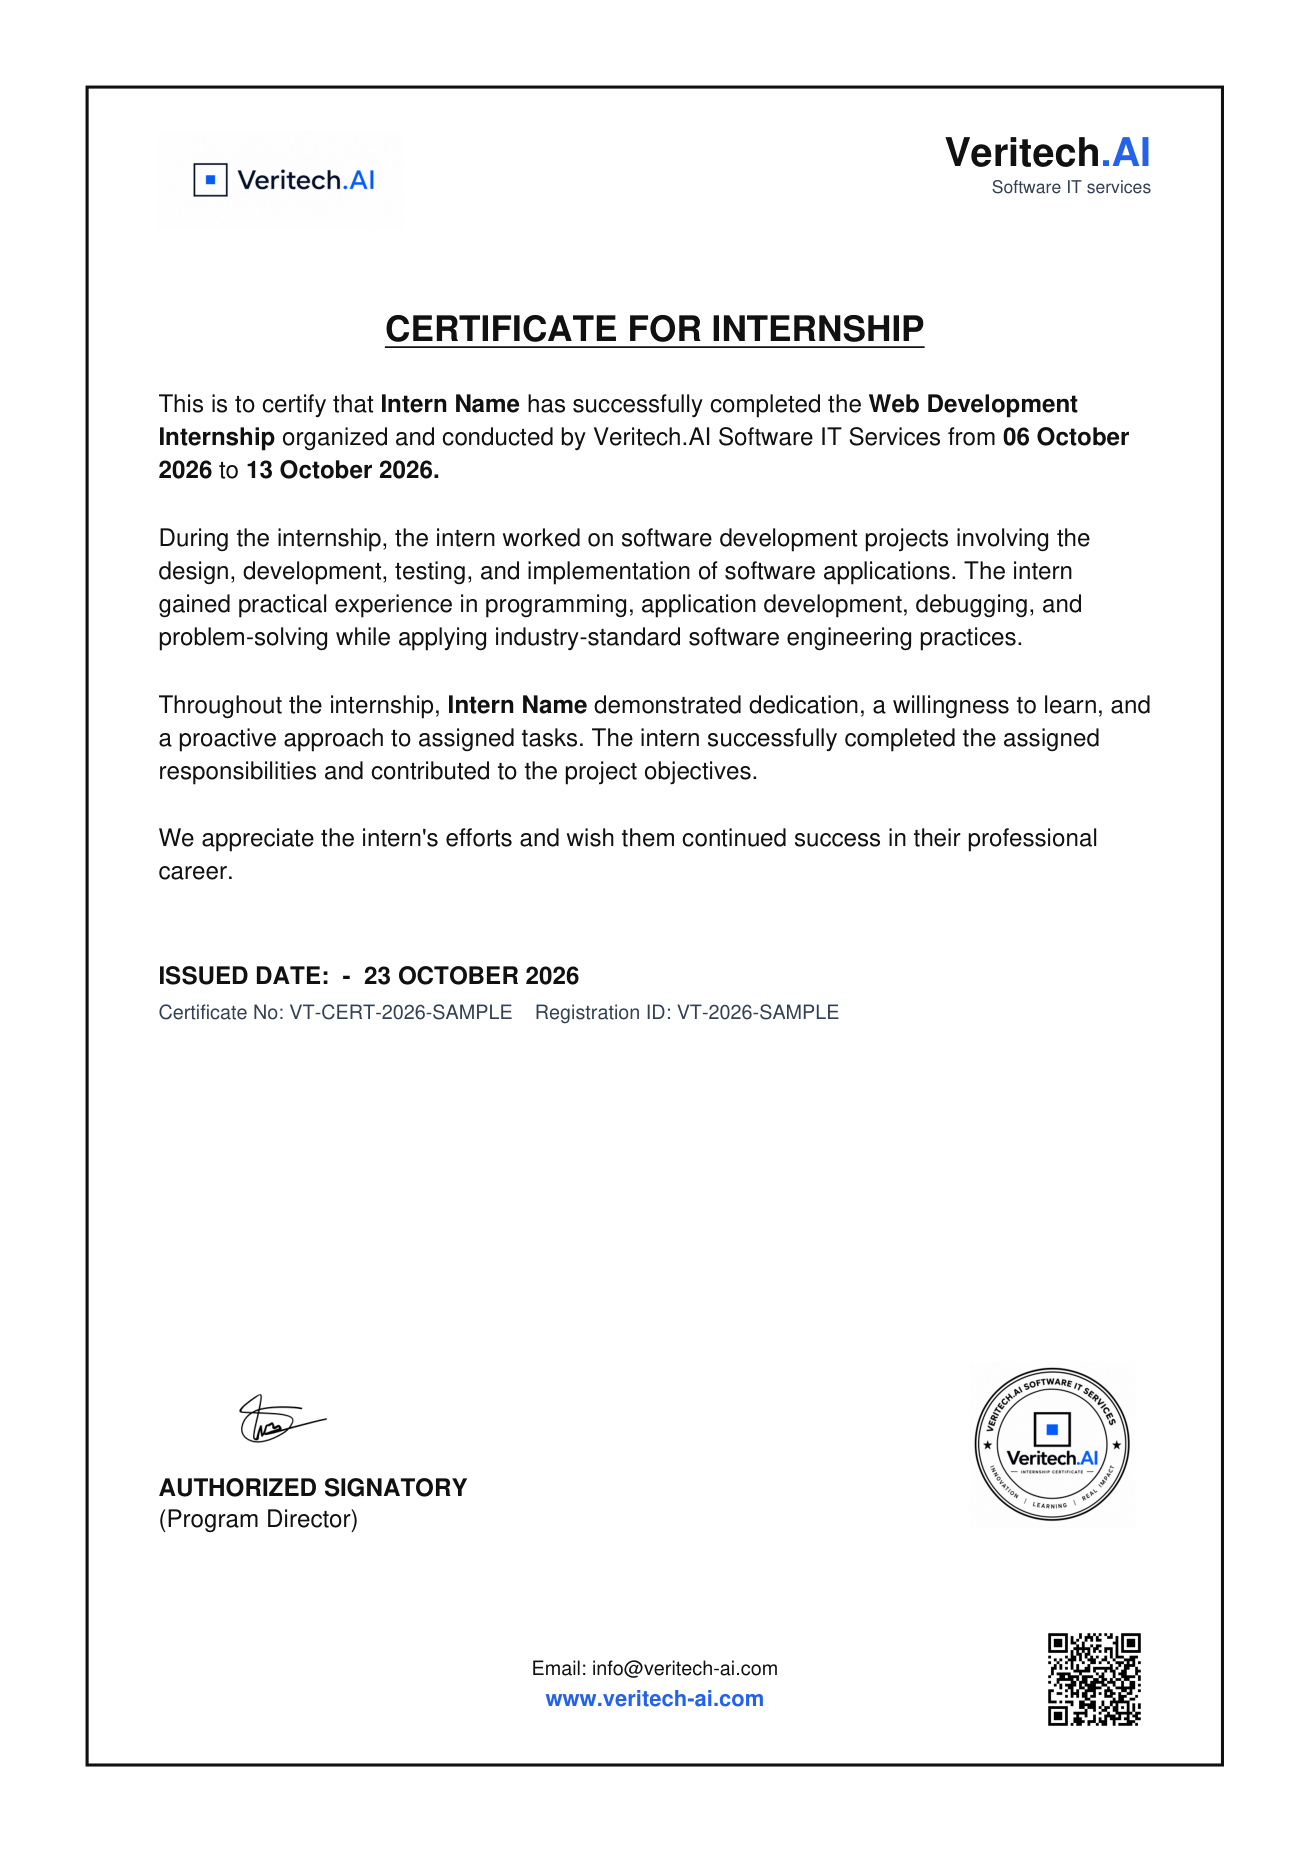
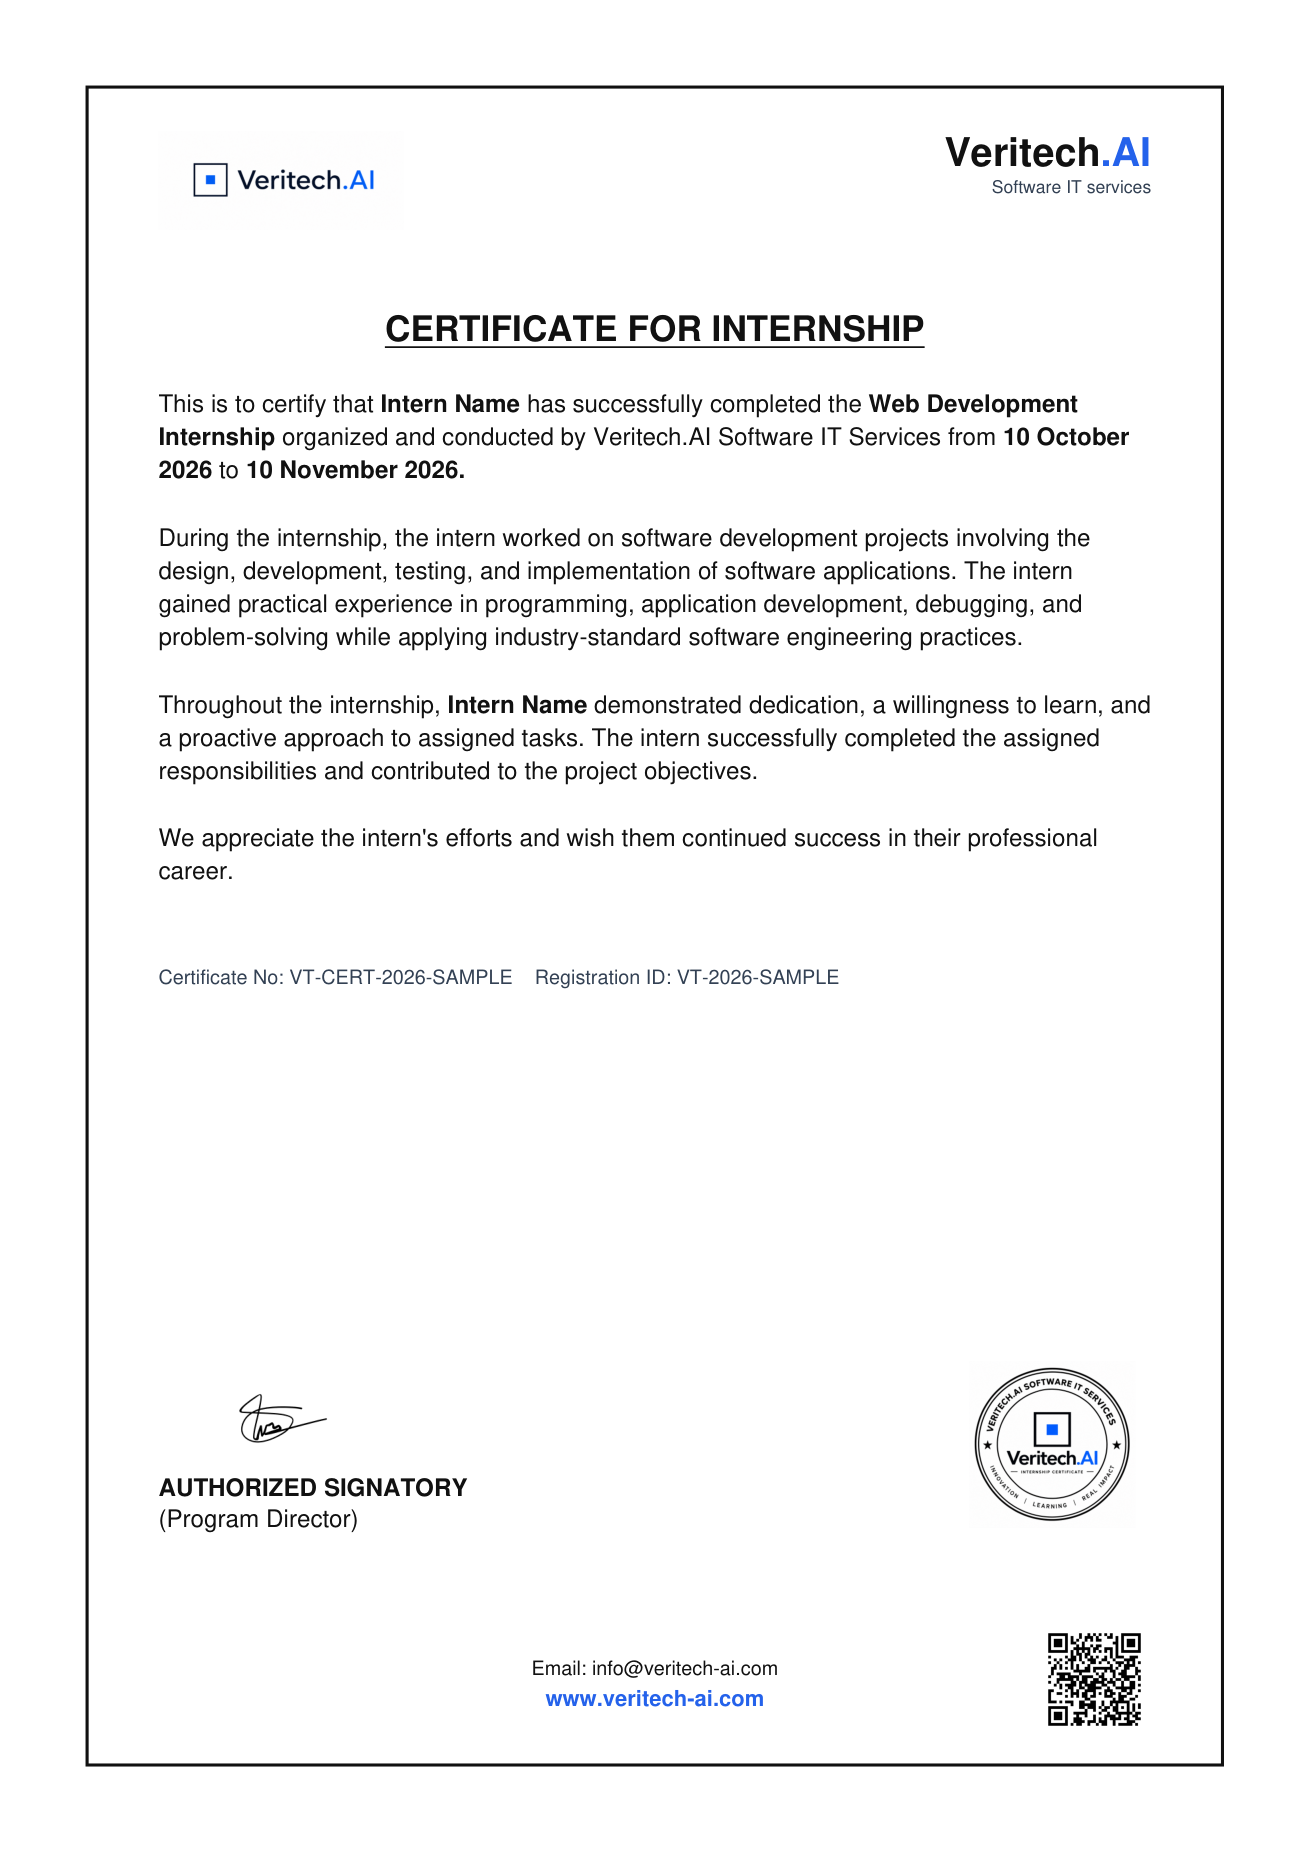
Align payment plan cards and hide the 1 Day option; drop issued date from certificates.

Changed region(s): [[0.1221, 0.5229, 0.6412, 0.5537], [0.2137, 0.2461, 0.3359, 0.2768], [0.7634, 0.2153, 0.7939, 0.2461]]

diff --git a/frontend/src/pages/Payment.jsx b/frontend/src/pages/Payment.jsx
@@ -39,7 +39,18 @@ export default function Payment() {
     setPlansLoading(true);
     api
       .get("/plans")
-      .then((r) => setPlans(Array.isArray(r.data) ? r.data : []))
+      .then((r) => {
+        const next = (Array.isArray(r.data) ? r.data : []).filter(
+          (plan) => Number(plan.duration_months) !== 0,
+        );
+        setPlans(next);
+        setSelected((current) => {
+          if (next.some((plan) => plan.duration_months === current)) return current;
+          return next.find((plan) => plan.duration_months === 3)?.duration_months
+            ?? next[0]?.duration_months
+            ?? 3;
+        });
+      })
       .catch(() => setPlans([]))
       .finally(() => setPlansLoading(false));
   }, []);
@@ -191,10 +202,10 @@ export default function Payment() {
         {plansLoading ? (
           <PlansSkeleton />
         ) : (
-        <div className="grid items-stretch gap-4 md:grid-cols-2 xl:grid-cols-5">
+        <div className="grid items-stretch gap-4 pt-4 md:grid-cols-2 xl:grid-cols-4">
           {plans.map((p) => {
             const active = selected === p.duration_months;
-            const key = p.duration_months === 0 ? "1d" : `${p.duration_months}m`;
+            const key = `${p.duration_months}m`;
             const perks = PLAN_PERKS[p.duration_months] || [];
             const popular = Boolean(p.popular);
             const career = p.duration_months === 3 || p.duration_months === 6;
@@ -203,9 +214,9 @@ export default function Payment() {
                 key={p.duration_months}
                 data-testid={`duration-card-${key}`}
                 onClick={() => setSelected(p.duration_months)}
-                className={`relative flex cursor-pointer flex-col rounded-[24px] border bg-white p-6 ${
+                className={`relative flex h-full cursor-pointer flex-col rounded-[24px] border bg-white p-6 pt-8 ${
                   career
-                    ? "border-blue-300 shadow-[0_24px_50px_-24px_rgba(37,99,235,0.55)] xl:-mt-2"
+                    ? "border-blue-300 shadow-[0_24px_50px_-24px_rgba(37,99,235,0.55)]"
                     : "border-slate-200/80 shadow-sm"
                 } ${active ? "ring-2 ring-slate-900" : ""}`}
               >
@@ -223,7 +234,7 @@ export default function Payment() {
                     )}
                   </div>
                 )}
-                <div className={career ? "-mx-6 -mt-6 mb-4 rounded-t-[24px] bg-gradient-to-b from-blue-50 via-white to-white px-6 pb-2 pt-8" : ""}>
+                <div className={career ? "-mx-6 -mt-8 mb-4 rounded-t-[24px] bg-gradient-to-b from-blue-50 via-white to-white px-6 pb-2 pt-8" : ""}>
                   <h2 className="text-lg font-semibold text-slate-900">{p.name}</h2>
                   {formatDateRange(p.start_date, p.end_date) && (
                     <p className="mt-1 text-xs font-semibold text-blue-600">{formatDateRange(p.start_date, p.end_date)}</p>

diff --git a/frontend/src/lib/api.js b/frontend/src/lib/api.js
@@ -128,11 +128,6 @@ export function linkedInCertificationUrl(reg) {
 // Perks shown on pricing cards. Keyed by duration_months.
 // 3M and 6M get the strongest career-value messaging.
 export const PLAN_PERKS = {
-  0: [
-    "Instant express certificate",
-    "Downloadable PDF with verification QR",
-    "Shareable on LinkedIn & resumes",
-  ],
   1: [
     "Official Veritech.AI certificate",
     "LinkedIn-ready credential",
@@ -168,9 +163,9 @@ export const PLAN_PERKS = {
 
 // Side-by-side comparison matrix. Each feature is tagged with the duration_months it ships in.
 export const COMPARISON_FEATURES = [
-  { label: "Official Veritech.AI certificate", in: [0, 1, 2, 3, 6] },
-  { label: "LinkedIn-ready credential", in: [0, 1, 2, 3, 6] },
-  { label: "Public QR-based verification page", in: [0, 1, 2, 3, 6] },
+  { label: "Official Veritech.AI certificate", in: [1, 2, 3, 6] },
+  { label: "LinkedIn-ready credential", in: [1, 2, 3, 6] },
+  { label: "Public QR-based verification page", in: [1, 2, 3, 6] },
   { label: "Extended internship record on your profile", in: [2] },
   { label: "Highlight your internship duration", in: [2] },
   { label: "Consider as a valid internship", in: [3] },

diff --git a/frontend/src/pages/Register.jsx b/frontend/src/pages/Register.jsx
@@ -8,9 +8,9 @@ import useInternshipPeriods from "../lib/useInternshipPeriods";
 
 const CERTIFICATE_TYPE = "Internship Completion Certificate";
 const YEARS = ["2026", "2027", "2028", "2029", "2030", "Other"];
-const DURATIONS = [0, 1, 2, 3, 6];
+const DURATIONS = [1, 2, 3, 6];
 const durationLabel = (months) =>
-  months === 0 ? "1 Day Certificate" : `${months} Month${months > 1 ? "s" : ""} Certificate`;
+  `${months} Month${months > 1 ? "s" : ""} Certificate`;
 const isCareerDuration = (months) => months === 3 || months === 6;
 
 const emptyForm = {
@@ -111,7 +111,7 @@ export default function Register() {
   const { state, update } = useRegistration();
   const [form, setForm] = useState(() => {
     const next = { ...emptyForm, ...(state.form || {}), certificate_type: CERTIFICATE_TYPE };
-    if (!DURATIONS.includes(next.duration_months)) next.duration_months = 3;
+    if (!DURATIONS.includes(Number(next.duration_months))) next.duration_months = 3;
     return next;
   });
   const [errors, setErrors] = useState({});

diff --git a/frontend/src/pages/AdminRegistrations.jsx b/frontend/src/pages/AdminRegistrations.jsx
@@ -143,10 +143,10 @@ export default function AdminRegistrations() {
         </select>
         <select value={duration} onChange={(e) => setDuration(e.target.value)} className="rounded-xl border border-slate-200 px-3 py-2 text-sm" data-testid="filter-duration">
           <option value="">All durations</option>
-          {[0, 1, 2, 3, 6].map((months) => {
+          {[1, 2, 3, 6].map((months) => {
             const slot = periods[String(months)] || {};
             const label = durationWithDates(months, slot.start_date, slot.end_date);
-            return <option key={months} value={months}>{months === 0 ? "1 Day" : label}</option>;
+            return <option key={months} value={months}>{label}</option>;
           })}
         </select>
         <ListBulkBar

diff --git a/frontend/src/components/ComparePlansModal.jsx b/frontend/src/components/ComparePlansModal.jsx
@@ -11,7 +11,10 @@ export default function ComparePlansModal({ open, onClose, onSelect, selectedDur
   useEffect(() => {
     if (!open) return;
     setLoading(true);
-    api.get("/plans").then((r) => setPlans(r.data)).catch(() => {}).finally(() => setLoading(false));
+    api.get("/plans")
+      .then((r) => setPlans((Array.isArray(r.data) ? r.data : []).filter((plan) => Number(plan.duration_months) !== 0)))
+      .catch(() => {})
+      .finally(() => setLoading(false));
     const onEsc = (e) => e.key === "Escape" && onClose();
     document.addEventListener("keydown", onEsc);
     document.body.style.overflow = "hidden";

diff --git a/frontend/src/pages/AdminCertificates.jsx b/frontend/src/pages/AdminCertificates.jsx
@@ -194,7 +194,7 @@ export default function AdminCertificates() {
           data-testid="certificates-duration-filter"
         >
           <option value="">All durations</option>
-          {[0, 1, 2, 3, 6].map((months) => (
+          {[1, 2, 3, 6].map((months) => (
             <option key={months} value={months}>
               {formatDuration(months)}
             </option>

diff --git a/frontend/src/pages/AdminBranding.jsx b/frontend/src/pages/AdminBranding.jsx
@@ -121,7 +121,6 @@ function AuthImage({ src, token, alt }) {
 }
 
 const PERIODS = [
-  { months: "0", label: "1 Day" },
   { months: "1", label: "1 Month" },
   { months: "2", label: "2 Months" },
   { months: "3", label: "3 Months" },

diff --git a/backend/server.py b/backend/server.py
@@ -96,7 +96,7 @@ CERTIFICATE_TYPES = [
     "Internship Certificate", "Internship Completion Certificate",
     "Training Certificate", "Other",
 ]
-DURATION_MONTHS = {0, 1, 2, 3, 6}  # 0 = "1 Day" express plan
+DURATION_MONTHS = {1, 2, 3, 6}
 
 
 class RegistrationCreate(BaseModel):
@@ -265,8 +265,6 @@ async def get_plan(duration_months: int) -> dict:
 # Startup - seed plans and admin
 # ============================================================
 DEFAULT_PLANS = [
-    {"name": "1 Day", "duration_months": 0, "price": 1, "currency": "INR",
-     "description": "Express same-day certificate", "is_active": True, "popular": False},
     {"name": "1 Month", "duration_months": 1, "price": 99, "currency": "INR",
      "description": "Official Veritech.AI Certificate", "is_active": True, "popular": False},
     {"name": "2 Months", "duration_months": 2, "price": 149, "currency": "INR",
@@ -297,6 +295,13 @@ async def startup():
         if not existing:
             plan_doc = {**plan, "created_at": now_iso(), "updated_at": now_iso()}
             await db.plans.insert_one(plan_doc)
+    # Hide the retired 1 Day plan from public pricing and new registrations.
+    await db.plans.update_one(
+        {"duration_months": 0},
+        {"$set": {"is_active": False, "updated_at": now_iso()}},
+    )
+    _PLANS_CACHE["at"] = 0.0
+    _PLANS_CACHE["value"] = None
     # Keep the configured admin account able to sign in with ADMIN_PASSWORD.
     existing_admin = await db.admin_users.find_one({"email": ADMIN_EMAIL})
     password_ok = False
@@ -362,6 +367,8 @@ async def list_plans():
     result = []
     for plan in plans:
         item = clean(plan)
+        if int(item.get("duration_months") or -1) not in DURATION_MONTHS:
+            continue
         slot = periods.get(str(item.get("duration_months"))) or {}
         item["start_date"] = slot.get("start_date") or ""
         item["end_date"] = slot.get("end_date") or ""
@@ -1800,23 +1807,13 @@ def _build_certificate_pdf(reg: dict, branding: Optional[dict] = None) -> bytes:
     for parts in paragraphs[1:]:
         y = _draw_rich_text(c, left, y - 0.22 * inch, parts, 11, text_width, 15, black)
 
-    issued = reg.get("paid_at") or reg.get("certificate_generated_at") or datetime.now(timezone.utc).isoformat()
-    try:
-        issued_dt = datetime.fromisoformat(str(issued).replace("Z", "+00:00"))
-        issued_label = issued_dt.strftime("%d %B %Y").upper()
-    except ValueError:
-        issued_label = datetime.now(timezone.utc).strftime("%d %B %Y").upper()
-
     y -= 0.45 * inch
-    c.setFillColor(black)
-    c.setFont("Helvetica-Bold", 11)
-    c.drawString(left, y, f"ISSUED DATE:  -  {issued_label}")
     c.setFont("Helvetica", 9)
     c.setFillColor(muted)
     meta = f"Registration ID: {reg.get('registration_id', '')}"
     if reg.get("certificate_number"):
         meta = f"Certificate No: {reg['certificate_number']}    {meta}"
-    c.drawString(left, y - 16, meta)
+    c.drawString(left, y, meta)
 
     sign_top = 2.55 * inch
     if branding and branding.get("signature_b64"):
